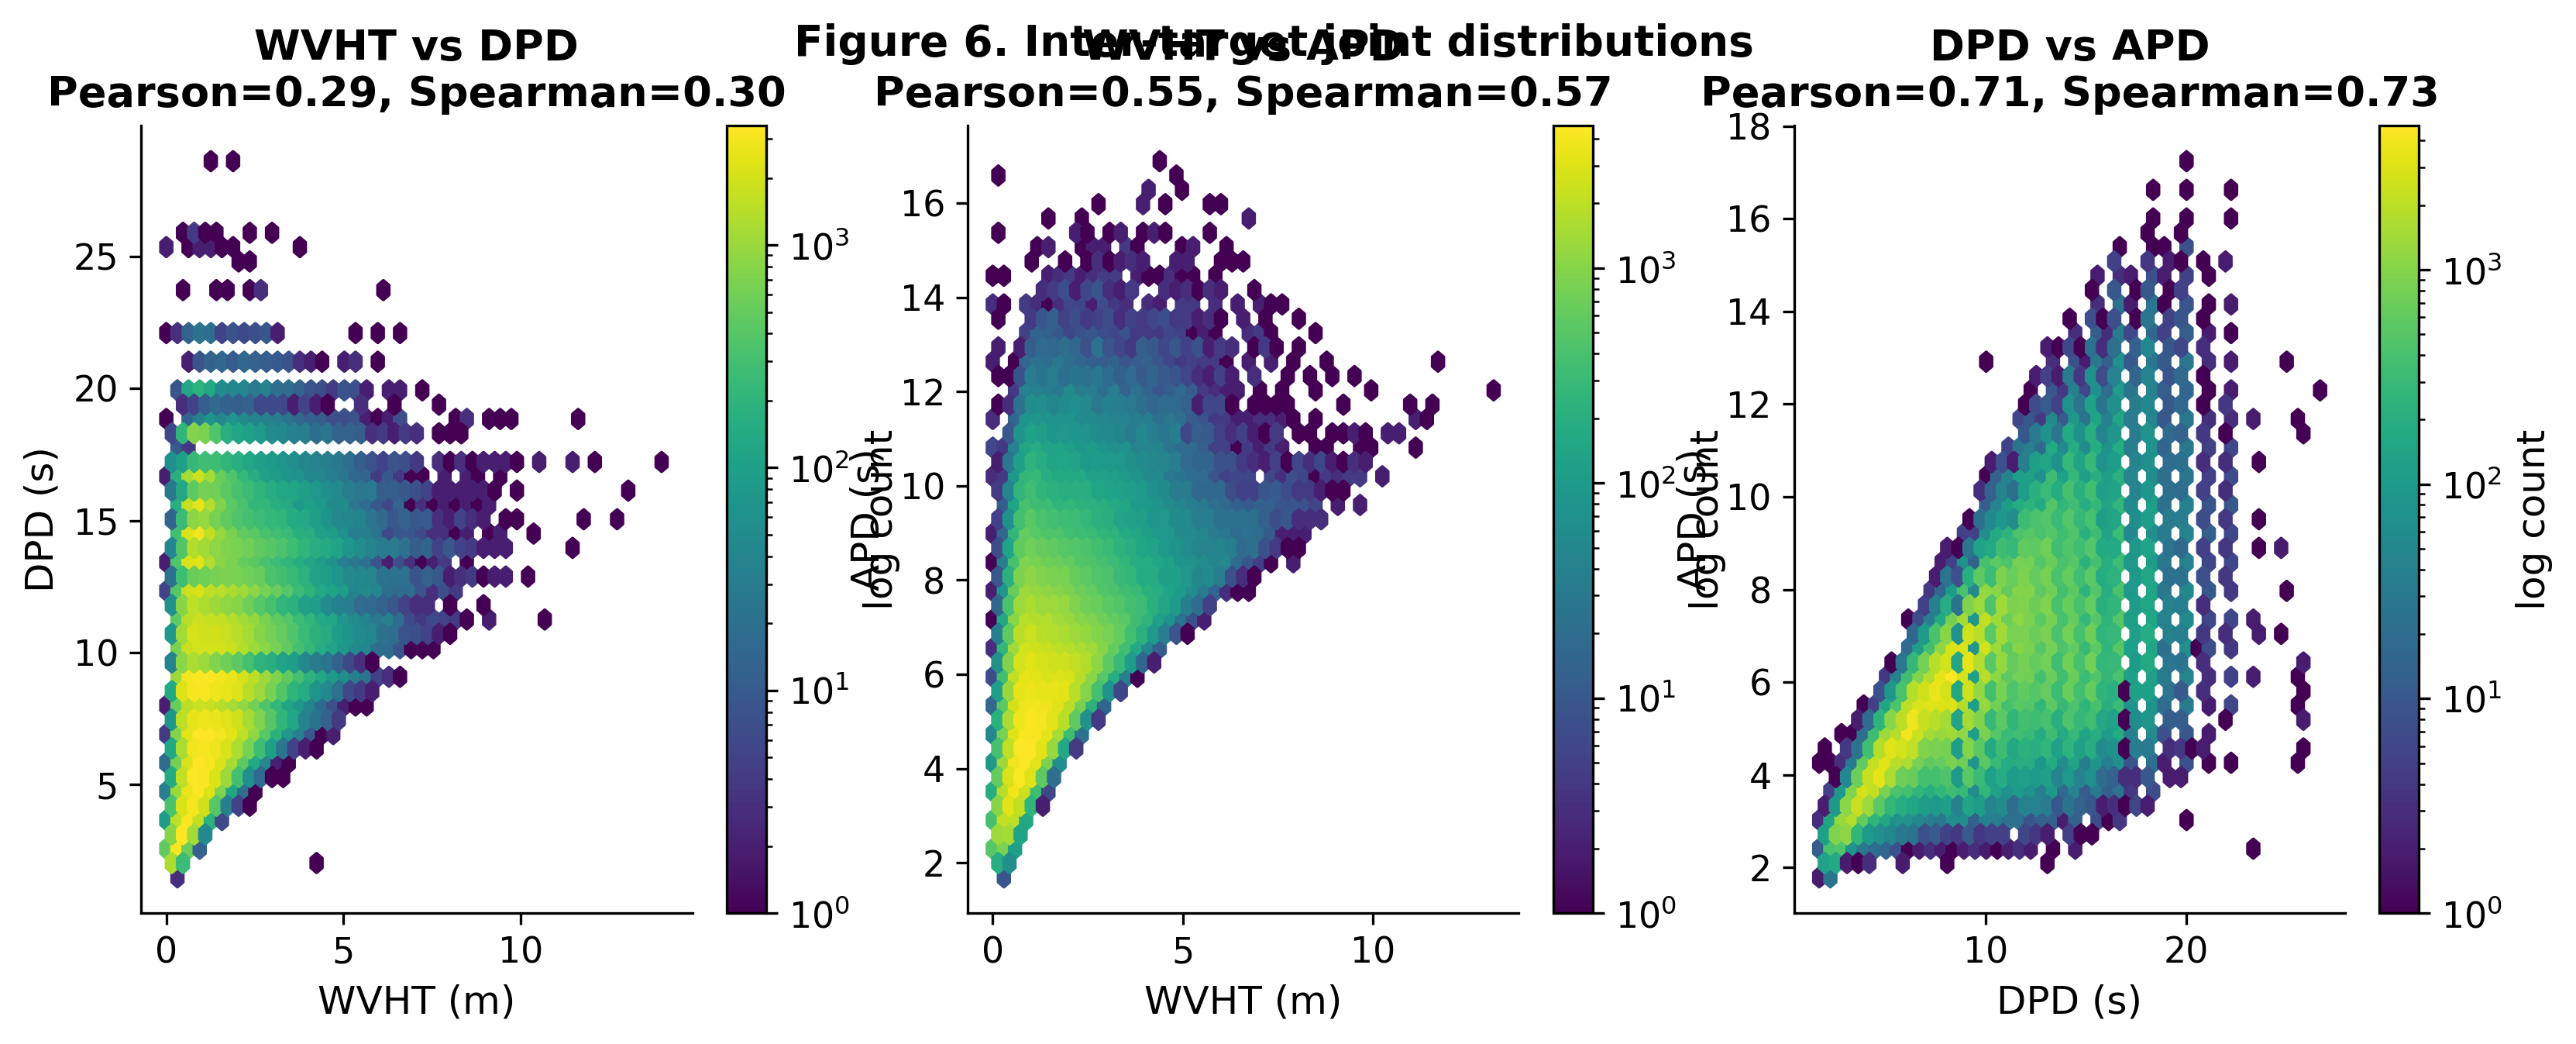
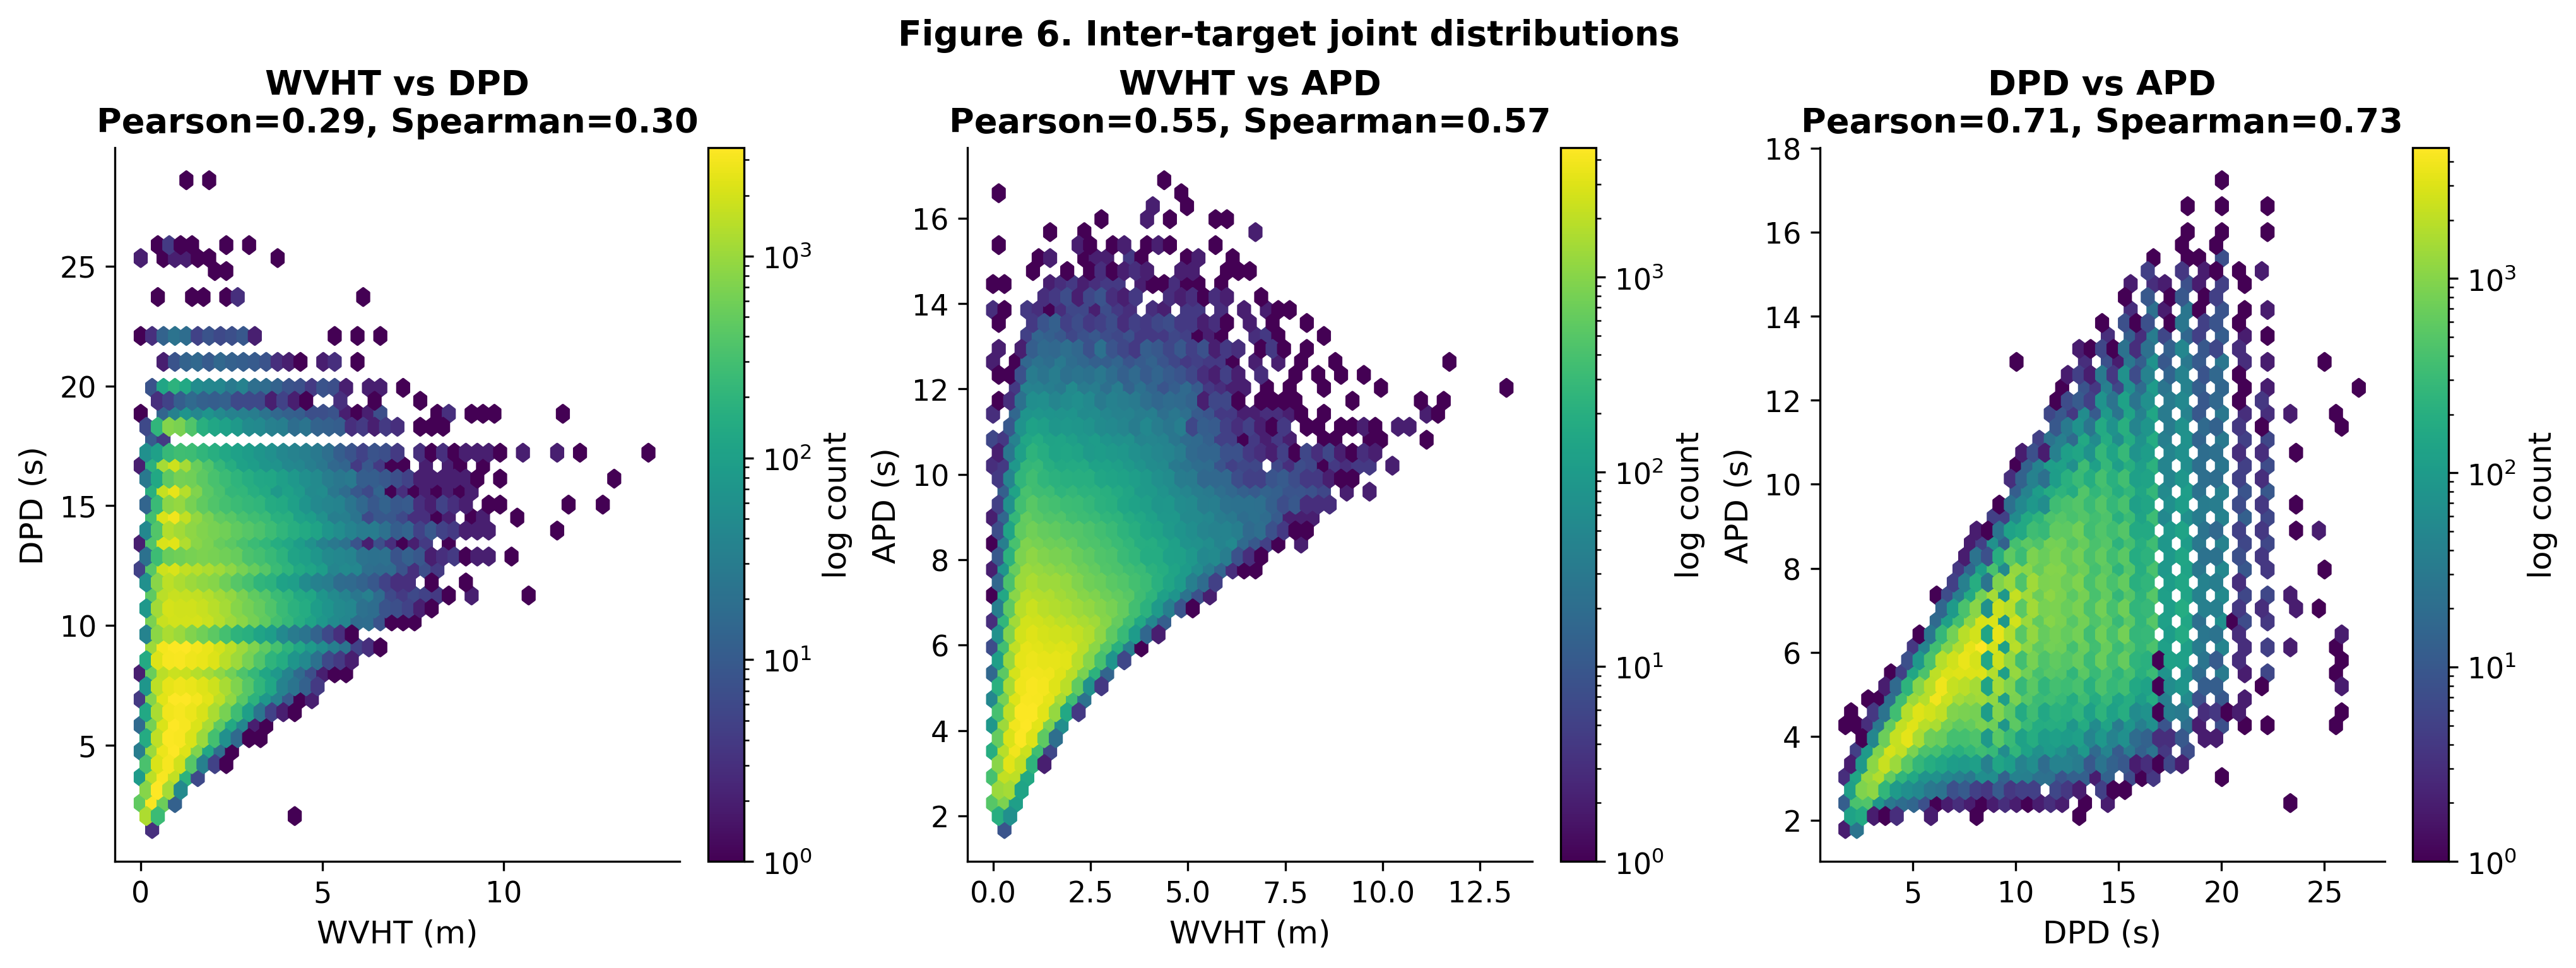
fix: correct fig4 target/feature labels, fig6 title spacing, per-target connectivity n, and Cahill author
Four verified corrections to the journal draft:

- Figure 4 no longer implies DPD is a target. Panels are reordered targets-first
  (WVHT, APD) then the retained feature (DPD), each labelled by role, with a
  matching suptitle and caption ('DPD is a model input, not a target'). The
  eda.py docstring that called DPD a target is corrected too.
- Figure 6 subplot titles no longer collide with the suptitle (constrained
  layout + more height); the middle 'WVHT vs APD' title was previously garbled.
- Connectivity sample size is now stated explicitly and consistently everywhere
  as n=38 for WVHT and n=33 for APD, with the reason (five outage victims do not
  report APD and cannot be scored on it). No floating n approx anywhere; counts
  are pulled from the CSV by build_paper.py.
- main.bib: Cahill & Lewis (METS 2014) is confirmed real and remains the source
  for the Te=alpha*APD ratio; the first author is corrected to the initial
  'Cahill, B.' (the METS2014 first author is Brendan, not Blanaid).

Figures fig4/fig6 regenerated. One [CITATION NEEDED: spatial interpolation /
kriging] placeholder remains for the reader. main.pdf left uncommitted.

Changed region(s): [[0.0, 0.0, 0.9913, 0.9978]]

diff --git a/reports/_paper_template.tex b/reports/_paper_template.tex
@@ -175,9 +175,10 @@ stations we selected @n_stations@ that meet a coverage-and-longevity threshold
 over 2021--2025, yielding an hourly tensor of @n_hours@ time steps across the
 station panel used throughout (Figure~\ref{fig:map}). The connectivity analysis
 in Section~\ref{sec:results}
-is limited to the subset of stations that both host a station-outage victim and
-have valid neighbours, so its sample size ($n\approx@nw@$) is smaller than the
-full panel.
+is limited to the station-outage victim stations, of which there are @nw@ with a
+scorable WVHT recovery and @na@ with a scorable APD recovery (five victims do not
+report APD and so cannot be scored on it). These per-target sample sizes are much
+smaller than the full panel.
 
 We correct two classes of metadata error discovered during the audit. First, a
 basin misassignment near the Florida--Atlantic boundary was fixed by adjusting
@@ -223,8 +224,10 @@ used to set the selection threshold.}
 \begin{figure}[t]
 \centering
 \includegraphics[width=0.86\textwidth]{fig4_target_dists.png}
-\caption{Distributions of the target variables, significant wave height (WVHT)
-and average wave period (APD).}
+\caption{Pooled distributions (all stations $\times$ hours) of the two modelled
+targets---significant wave height (WVHT) and average wave period (APD)---and the
+retained predictor feature, dominant wave period (DPD). DPD is a model input, not
+a target. Solid and dashed lines mark the mean and median.}
 \label{fig:tdist}
 \end{figure}
 
@@ -415,17 +418,17 @@ form, after normalizing by each station's own variability, and as the GRIN-minus
 SAITS advantage. The signs are consistent with the hypothesis---higher degree
 and denser edge weight tend to lower normalized error---and several coefficients
 reach significance ($^{*}p<0.05$). We deliberately do not overclaim: the sample
-is small ($n\approx@nw@$ stations), so we read this as \emph{suggestive},
-directional evidence rather than a firm law. Figure~\ref{fig:conn} visualizes the
-relationship.
+is small ($n=@nw@$ victim stations for WVHT and $n=@na@$ for APD), so we read this
+as \emph{suggestive}, directional evidence rather than a firm law.
+Figure~\ref{fig:conn} visualizes the relationship.
 
 \begin{table}[t]
 \centering
 \caption{Spearman correlation between station connectivity and station-outage
 recovery. Negative values mean better-connected stations are recovered more
 accurately. ``Normalized'' divides error by the station's own variability;
-``advantage'' is GRIN minus SAITS. $^{*}p<0.05$. Sample is small
-($n\approx@nw@$), so these are suggestive.}
+``advantage'' is GRIN minus SAITS. $^{*}p<0.05$. Samples are small
+($n=@nw@$ stations for WVHT, $n=@na@$ for APD), so these are suggestive.}
 \label{tab:conn}
 \small
 \begin{tabular}{l l ccc}
@@ -572,7 +575,8 @@ We are careful about what we do not show. The basin-aware graph performs within
 model-seed noise of the plain graph; rather than bury this, we present it as a
 simplification---basin bookkeeping is unnecessary here. The connectivity effect
 has the expected sign and some significant coefficients, but with only
-$n\approx@nw@$ stations it is underpowered, and we label it suggestive.
+$n=@nw@$ victim stations for WVHT (and $n=@na@$ for APD) it is underpowered, and
+we label it suggestive.
 
 \noindent\textbf{Limitations.} Our evaluation is confined to two targets (WVHT
 and APD) over one national archive and one multi-year window; other basins,

diff --git a/reports/main.tex b/reports/main.tex
@@ -175,9 +175,10 @@ stations we selected 140 that meet a coverage-and-longevity threshold
 over 2021--2025, yielding an hourly tensor of 43{,}824 time steps across the
 station panel used throughout (Figure~\ref{fig:map}). The connectivity analysis
 in Section~\ref{sec:results}
-is limited to the subset of stations that both host a station-outage victim and
-have valid neighbours, so its sample size ($n\approx38$) is smaller than the
-full panel.
+is limited to the station-outage victim stations, of which there are 38 with a
+scorable WVHT recovery and 33 with a scorable APD recovery (five victims do not
+report APD and so cannot be scored on it). These per-target sample sizes are much
+smaller than the full panel.
 
 We correct two classes of metadata error discovered during the audit. First, a
 basin misassignment near the Florida--Atlantic boundary was fixed by adjusting
@@ -223,8 +224,10 @@ used to set the selection threshold.}
 \begin{figure}[t]
 \centering
 \includegraphics[width=0.86\textwidth]{fig4_target_dists.png}
-\caption{Distributions of the target variables, significant wave height (WVHT)
-and average wave period (APD).}
+\caption{Pooled distributions (all stations $\times$ hours) of the two modelled
+targets---significant wave height (WVHT) and average wave period (APD)---and the
+retained predictor feature, dominant wave period (DPD). DPD is a model input, not
+a target. Solid and dashed lines mark the mean and median.}
 \label{fig:tdist}
 \end{figure}
 
@@ -422,17 +425,17 @@ form, after normalizing by each station's own variability, and as the GRIN-minus
 SAITS advantage. The signs are consistent with the hypothesis---higher degree
 and denser edge weight tend to lower normalized error---and several coefficients
 reach significance ($^{*}p<0.05$). We deliberately do not overclaim: the sample
-is small ($n\approx38$ stations), so we read this as \emph{suggestive},
-directional evidence rather than a firm law. Figure~\ref{fig:conn} visualizes the
-relationship.
+is small ($n=38$ victim stations for WVHT and $n=33$ for APD), so we read this
+as \emph{suggestive}, directional evidence rather than a firm law.
+Figure~\ref{fig:conn} visualizes the relationship.
 
 \begin{table}[t]
 \centering
 \caption{Spearman correlation between station connectivity and station-outage
 recovery. Negative values mean better-connected stations are recovered more
 accurately. ``Normalized'' divides error by the station's own variability;
-``advantage'' is GRIN minus SAITS. $^{*}p<0.05$. Sample is small
-($n\approx38$), so these are suggestive.}
+``advantage'' is GRIN minus SAITS. $^{*}p<0.05$. Samples are small
+($n=38$ stations for WVHT, $n=33$ for APD), so these are suggestive.}
 \label{tab:conn}
 \small
 \begin{tabular}{l l ccc}
@@ -593,7 +596,8 @@ We are careful about what we do not show. The basin-aware graph performs within
 model-seed noise of the plain graph; rather than bury this, we present it as a
 simplification---basin bookkeeping is unnecessary here. The connectivity effect
 has the expected sign and some significant coefficients, but with only
-$n\approx38$ stations it is underpowered, and we label it suggestive.
+$n=38$ victim stations for WVHT (and $n=33$ for APD) it is underpowered, and
+we label it suggestive.
 
 \noindent\textbf{Limitations.} Our evaluation is confined to two targets (WVHT
 and APD) over one national archive and one multi-year window; other basins,

diff --git a/src/features/eda.py b/src/features/eda.py
@@ -9,8 +9,9 @@ is built on to the console.
 Style is consistent and paper-oriented: readable fonts, axes labelled with
 units, an Okabe-Ito colourblind-safe palette, and minimal chartjunk.
 
-The three modelled wave targets are WVHT (m), DPD (s), APD (s); there are no
-wind features in this tensor (see build_tensor.py for the rationale).
+The modelled targets are WVHT (m) and APD (s); DPD (s) is retained as a predictor
+feature, not a target. There are no wind features in this tensor (see
+build_tensor.py for the rationale).
 
 Run:  ``python -m src.features.eda``   (builds all figures)
 Importable; nothing runs on import.
@@ -242,15 +243,19 @@ def fig3_coverage_dist(mask, features, saved):
 # Figure 4 — pooled target distributions
 # ---------------------------------------------------------------------------
 def fig4_target_dists(tensor, mask, features, saved):
-    print("\n[fig4] pooled target distributions")
-    fig, axes = plt.subplots(1, 3, figsize=(13, 4.2))
-    for ax, name in zip(axes, ("WVHT", "DPD", "APD")):
+    print("\n[fig4] pooled target / feature distributions")
+    # WVHT and APD are the modelled targets; DPD is a retained predictor feature.
+    # Order targets first, feature last, and label each panel by its role so the
+    # figure never implies DPD is a target.
+    fig, axes = plt.subplots(1, 3, figsize=(13, 4.4), constrained_layout=True)
+    for ax, name in zip(axes, ("WVHT", "APD", "DPD")):
         f = features.index(name)
         vals = tensor[:, :, f][mask[:, :, f]]
         ax.hist(vals, bins=80, color=TARGET_COLORS[name], alpha=0.85)
         ax.set_xlabel(f"{name} ({TARGET_UNITS[name]})")
         ax.set_ylabel("count")
-        ax.set_title(name)
+        role = "target" if name in ("WVHT", "APD") else "feature"
+        ax.set_title(f"{name} ({role})")
         m, med = float(np.mean(vals)), float(np.median(vals))
         sd, sk = float(np.std(vals)), float(stats.skew(vals))
         ax.axvline(m, color="black", linestyle="-", linewidth=1)
@@ -259,7 +264,8 @@ def fig4_target_dists(tensor, mask, features, saved):
         if name == "WVHT":
             tag = "right-skewed (expected)" if sk > 0 else "NOT right-skewed (unexpected!)"
             print(f"         -> WVHT skew {sk:+.3f}: {tag}")
-    fig.suptitle("Figure 4. Pooled target distributions (all stations × hours)", fontweight="bold")
+    fig.suptitle("Figure 4. Distributions of the targets (WVHT, APD) and retained feature (DPD)",
+                 fontweight="bold")
     save_fig(fig, "fig4_target_dists", saved)
 
 
@@ -314,7 +320,9 @@ def fig6_target_relationships(tensor, mask, features, saved):
     print("\n[fig6] inter-target relationships")
     pairs = [("WVHT", "DPD"), ("WVHT", "APD"), ("DPD", "APD")]
     rng = np.random.default_rng(0)
-    fig, axes = plt.subplots(1, 3, figsize=(13, 4.4))
+    # constrained_layout keeps the two-line subplot titles from colliding with
+    # the suptitle (the middle panel was previously overlapping it).
+    fig, axes = plt.subplots(1, 3, figsize=(13.5, 5.0), constrained_layout=True)
     for ax, (a, b) in zip(axes, pairs):
         fa, fb = features.index(a), features.index(b)
         both = mask[:, :, fa] & mask[:, :, fb]

diff --git a/reports/build_paper.py b/reports/build_paper.py
@@ -109,7 +109,8 @@ for t in TGTS:
         adv_r, adv_p = rho(mk, f"{t}_adv")
         rows.append(f"{t} & {mn} & {raw_r:+.2f}{star(raw_p)} & {nrm_r:+.2f}{star(nrm_p)} & {adv_r:+.2f}{star(adv_p)} \\\\")
 T3 = "\n".join(rows)
-n_w = int(conn["WVHT_norm"].notna().sum())
+n_w = int(conn["WVHT_MAE"].notna().sum())
+n_a = int(conn["APD_MAE"].notna().sum())
 adv_w = conn["WVHT_adv"].mean()
 adv_a = conn["APD_adv"].mean()
 
@@ -166,7 +167,7 @@ P = {
     "n_stations": "140", "n_audit": "872", "n_hours": "43{,}824",
     "adv_w": f"{adv_w:.2f}", "adv_a": f"{adv_a:.2f}",
     "abl_within": str(ablation_within), "abl_total": str(ablation_total),
-    "nw": str(n_w),
+    "nw": str(n_w), "na": str(n_a),
     "pers1_wvht": f"{fmae('persistence', 'WVHT', 1)[0]:.3f}",
     "gwn12_w": f"{fmae('graphwavenet', 'WVHT', 12)[1]:+.3f}", "gwn24_w": f"{fmae('graphwavenet', 'WVHT', 24)[1]:+.3f}",
     "gwn12_a": f"{fmae('graphwavenet', 'APD', 12)[1]:+.3f}", "gwn24_a": f"{fmae('graphwavenet', 'APD', 24)[1]:+.3f}",